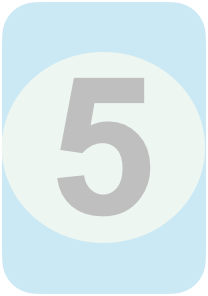
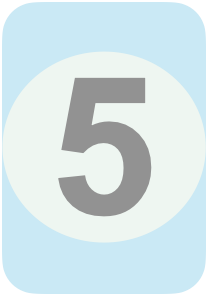
fix bugs and add delete function

diff --git a/src/components/Game.jsx b/src/components/Game.jsx
@@ -2,6 +2,7 @@ import React, { useState } from "react";
 import { useGameAdd } from "../hooks/useGameAdd";
 import { useGameSubtract } from "../hooks/useGameSubtract";
 import { useGameMultiply } from "../hooks/useGameMultiply";
+import { useGameDivide } from "../hooks/useGameDivide";
 import { ToastContainer, toast } from "react-toastify";
 import "react-toastify/dist/ReactToastify.css";
 import Answer from "./Answer";
@@ -13,6 +14,7 @@ import divideIcon from "../assets/images/division_card.png";
 import enterButton from "../assets/images/button_image_enter.png";
 import newButton from "../assets/images/button_image_new_problem.png";
 import resetButton from "../assets/images/button_image_reset_score.png";
+import deleteButton from "../assets/images/button_image_delete.png";
 
 function Game() {
     console.log("Game.jsx component is loaded");
@@ -21,30 +23,43 @@ function Game() {
     const [feedback, setFeedback] = useState("");
     const [correct, setCorrect] = useState(parseInt(localStorage.getItem("correct")) || 0);
     const [wrong, setWrong] = useState(parseInt(localStorage.getItem("wrong")) || 0);
+    const [hasSubmitted, setHasSubmitted] = useState(false);
 
     
     const { problem: addProblem, generateNewProblem: newAddProblem } = useGameAdd();
     const { problem: subtractProblem, generateNewProblem: newSubtractProblem } = useGameSubtract();
     const { problem: multiplyProblem, generateNewProblem: newMultiplyProblem } = useGameMultiply();
+    const { problem: divideProblem, generateNewProblem: newDivideProblem } = useGameDivide();
 
-    const problem = operation === "+" ? addProblem : operation === "-" ? subtractProblem : multiplyProblem;
-    const generateNewProblem = operation === "+" ? newAddProblem : operation === "-" ? newSubtractProblem : newMultiplyProblem;
+    const problem = operation === "+" ? addProblem : operation === "-" ? subtractProblem : operation === "×" ? multiplyProblem : divideProblem ;
+    const generateNewProblem = operation === "+" ? newAddProblem : operation === "-" ? newSubtractProblem : operation === "×" ? newMultiplyProblem : newDivideProblem ;
     
     /* Task: Add new feature - Division  */
-    // 1. Create separate hook useGameDivide.js
+    // 1. Create separate hook useGameDivide.js for lower elementary students (must be divisible without remainders, no decimals)
     // 2. Edit consts problem and generateNewProblem to dynamically respond when operation === "×"
     // 3. Edit consts problem and generateNewProblem to dynamically respond when operation === "÷" 
 
     /* Task: Fix bugs */
     // 4. a new problem should be generate when answer is submitted for substract and multiply problems (currently only works for add problems)
-    
-    /* Task: Create logic for editing answer before submitting  */
+    // 5. Fix toastify set timeout issue - new problem should follow toast only when the answer is correct
+    // 6. Create logic so that there is an option to edit answer before submitting
+    // 7. Add sound effects
 
     const handleNumberClick = (number) => {
         setUserAnswer((prev) => (parseInt(prev || "0") * 10 + number).toString());
     }
 
+    const handleDelete = () => {
+        /* write code to delete answer. */
+        setUserAnswer((prev) => prev.slice(0,-1));
+    }
+
+
     const handleSubmit = () => {
+
+        if (hasSubmitted) return; // prevent multiple submission
+
+        setHasSubmitted(true); // lock future submission
 
         const isCorrect = parseFloat(userAnswer) === problem.solution;
 
@@ -64,7 +79,14 @@ function Game() {
                     closeOnClick: true,
                     pauseOnHover: false,
                     draggable: false,
+                    
                 });
+                setTimeout(() => {
+                    generateNewProblem();
+                    setUserAnswer("");
+                    setHasSubmitted(fasle); // reset for next problem
+                }, 1500);
+                
             } else {
                 setWrong(prev => {
                     const newWrong = prev + 1;
@@ -88,6 +110,7 @@ function Game() {
         generateNewProblem();
         setFeedback(""); 
         setUserAnswer("");
+        setHasSubmitted(false);
     };
 
     const resetScore = () => {
@@ -108,16 +131,19 @@ function Game() {
     return (
         <div>
             
-            <div style={{ display: 'flex', flexDirection: 'column', justifyContent: 'center', alignItems: 'center', backgroundColor: '#f7edc6'}}>
+            <div style={{ display: 'flex', flexDirection: 'column', justifyContent: 'center', alignItems: 'center', backgroundColor: '#FFFFFF'}}>
                 <Header score={score} correct={correct} total={total} feedback={feedback} />
             </div>
 
-            <div style={{ display: "flex", gap: "10px", justifyContent: "center", marginTop: "10px 0", backgroundColor: '#cef0d9' }}>
+            <div style={{ display: "flex", gap: "10px", justifyContent: "center", marginTop: "10px 0", backgroundColor: '#FFFFFF' }}>
                <div style={{ display: "flex", flexDirection: "row", alignItems: "center", gap: "10px" }}>
                <img
                     src={addIcon}
                     alt="Addition"
-                    onClick={() => setOperation("+")}
+                    onClick={() => {
+                        setOperation("+"); 
+                        setHasSubmitted(false);
+                    }}
                     style={{ 
                         cursor: "pointer", 
                         width: "50px", 
@@ -129,7 +155,10 @@ function Game() {
                 <img
                     src={subtractIcon}
                     alt="Subtraction"
-                    onClick={() => setOperation("-")}
+                    onClick={() => {
+                        setOperation("-");
+                        setHasSubmitted(false);
+                    }}
                     style={{ 
                         ursor: "pointer", 
                         width: "50px", 
@@ -141,7 +170,10 @@ function Game() {
                 <img
                     src={multiplyIcon}
                     alt="Multiplication"
-                    onClick={() => setOperation("×")}
+                    onClick={() => {
+                        setOperation("×"); 
+                        setHasSubmitted(false);
+                    }}
                     style={{ 
                         cursor: "pointer", 
                         width: "50px", 
@@ -154,7 +186,10 @@ function Game() {
                 <img
                     src={divideIcon}
                     alt="Division"
-                    onClick={() => setOperation("÷")}
+                    onClick={() => {
+                        setOperation("÷"); 
+                        setHasSubmitted(false);
+                    }}
                     style={{ 
                         cursor: "pointer", 
                         width: "50px", 
@@ -174,8 +209,9 @@ function Game() {
                 justifyContent: 'center', 
                 alignItems: 'center',
                 fontSize: '50px',
-                color: '#808080',
-                backgroundColor: '#f7edc6'
+                fontWeight: 'bold',
+                color: '#636363',
+                backgroundColor: '#FFFFFF'
                 }}>
                 <p>{problem.term1} {problem.symbol} {problem.term2} = {userAnswer || "?"}</p>
             </div>
@@ -183,15 +219,28 @@ function Game() {
             <Answer onNumberClick={handleNumberClick} />
     
 
-            <div style={{ display: "flex", gap: "10px", justifyContent: "center", marginTop: "10px 0", backgroundColor: '#f7edc6' }}>
-                <div style={{ display: "flex", flexDirection: "row", alignItems: "center", margin: "10px 0", gap: "10px" }}>
+            <div style={{ display: "flex", gap: "10px", justifyContent: "center", marginTop: "10px 0", backgroundColor: '#FFFFFF' }}>
+                <div style={{ display: "flex", flexDirection: "row", alignItems: "center", margin: "50px 0", gap: "10px" }}>
+                    
+                    <img
+                        src={deleteButton}
+                        alt="Delete"
+                        onClick={handleDelete}
+                        style={{ 
+                            cursor: "pointer", 
+                            width: "80px", 
+                            height: "50px" 
+                        }}
+                    />
+
+                    
                     <img
                         src={enterButton}
                         alt="Enter"
                         onClick={handleSubmit}
                         style={{ 
                             cursor: "pointer", 
-                            width: "85px", 
+                            width: "80px", 
                             height: "50px" 
                         }}
                     />
@@ -202,7 +251,7 @@ function Game() {
                         onClick={handleNewProblem}
                         style={{ 
                             cursor: "pointer", 
-                            width: "85px", 
+                            width: "80px", 
                             height: "50px" 
                         }}
                     />
@@ -213,7 +262,7 @@ function Game() {
                         onClick={resetScore}
                         style={{ 
                             cursor: "pointer", 
-                            width: "85px", 
+                            width: "80px", 
                             height: "50px" 
                         }}
                     />

diff --git a/src/hooks/useGameDivide.js b/src/hooks/useGameDivide.js
@@ -1,0 +1,21 @@
+import { useState, useEffect } from "react";
+
+export function useGameDivide() {
+  const [problem, setProblem] = useState({ term1: 0, term2: 0, symbol: "÷" });
+
+  useEffect(() => {
+    generateNewProblem();
+  }, []);
+
+  function generateNewProblem() {
+    const term2 = Math.floor(Math.random() * 9) + 1; // 1 to 9 (no zero)
+    const multiplier = Math.floor(Math.random() * 10); // 0 to 9
+    const term1 = term2 * multiplier; // term1 is divisible by term2
+    const solution = term1 / term2;
+
+    setProblem({ term1, term2, symbol: "÷", solution });
+  }
+
+  return { problem, generateNewProblem };
+}
+

diff --git a/src/components/Answer.jsx b/src/components/Answer.jsx
@@ -15,7 +15,7 @@ const numberImages = [num0, num1, num2, num3, num4, num5, num6, num7, num8, num9
 
 function Answer({ onNumberClick }) {
     return (
-      <div style={{ display: "flex", flexWrap: "wrap", justifyContent: "center", gap: "10px", marginTop: "10px 0", maxWidth: "350px", backgroundColor: '#f7edc6' }}>
+      <div style={{ display: "flex", flexWrap: "wrap", justifyContent: "center", gap: "10px", marginTop: "10px 0", maxWidth: "350px", backgroundColor: '#FFFFFF' }}>
         {numberImages.map((src, i) => (
           <React.Fragment key={i}>
             <img

diff --git a/src/components/Header.jsx b/src/components/Header.jsx
@@ -3,7 +3,7 @@ import React from "react";
 function Header({ score, correct, total, feedback }) {
     console.log("Header.jsx component is loaded");
     return (
-        <div style={{fontSize: "18px", color: 'gray'}}>
+        <div style={{fontSize: "18px", color: '#636363'}}>
              <h2>{'YOUR SCORE:'} {score}% ({correct}/{total})</h2>
         </div>
     )
